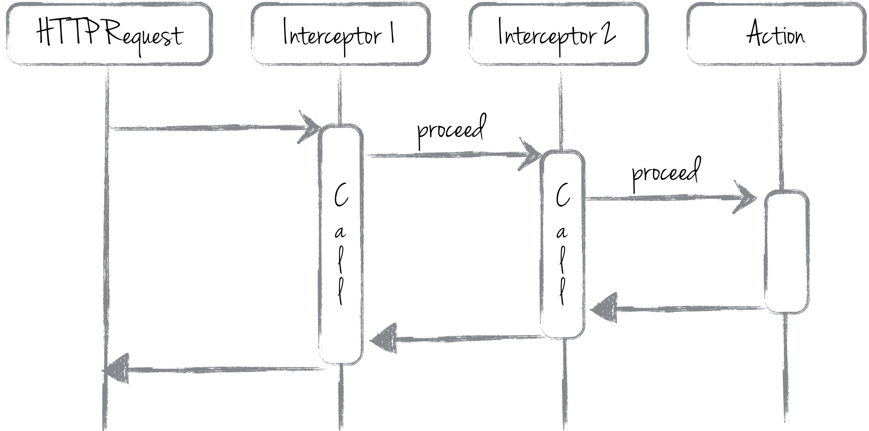
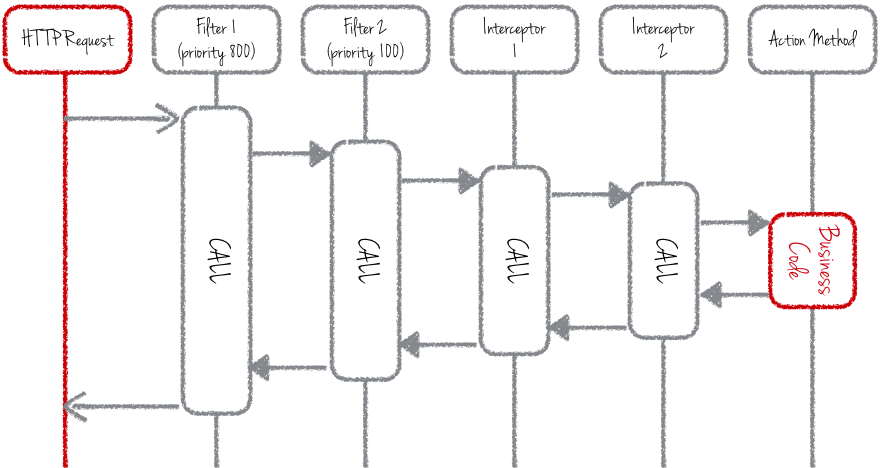
Add documentation about filters

Changed region(s): [[0.0, 0.0, 1.0, 1.0]]

diff --git a/documentation/src/main/java/interceptors/TimeFilter.java b/documentation/src/main/java/interceptors/TimeFilter.java
@@ -1,0 +1,66 @@
+package interceptors;
+
+import org.apache.felix.ipojo.annotations.Component;
+import org.apache.felix.ipojo.annotations.Instantiate;
+import org.apache.felix.ipojo.annotations.Provides;
+import org.slf4j.Logger;
+import org.slf4j.LoggerFactory;
+import org.wisdom.api.http.Result;
+import org.wisdom.api.interception.Filter;
+import org.wisdom.api.interception.RequestContext;
+import org.wisdom.api.router.Route;
+
+import java.util.regex.Pattern;
+
+/**
+ * A filter measuring the time spent to compute the time spent to handle an action
+ */
+@Component
+@Provides
+@Instantiate
+public class TimeFilter  implements Filter {
+
+    private static final Logger LOGGER = LoggerFactory.getLogger(TimeFilter.class.getName());
+
+    private static final Pattern REGEX = Pattern.compile("/documentation.*");
+
+    @Override
+    public Result call(Route route, RequestContext context) throws Throwable {
+        final long begin = System.currentTimeMillis();
+        try {
+            return context.proceed();
+        } finally {
+            final long end = System.currentTimeMillis();
+            LOGGER.info("Time spent to reply to {} {} : {} ms",
+                    route.getHttpMethod(), context.context().path(),
+                    (end - begin));
+        }
+    }
+
+    /**
+     * Gets the Regex Pattern used to determine whether the route
+     * is handled by the filter or not.
+     * Notice that the router are caching these patterns and so
+     * cannot changed.
+     */
+    @Override
+    public Pattern uri() {
+        return REGEX;
+    }
+
+    /**
+     * Gets the filter priority, determining the position of the
+     * filter in the filter chain. Filter with a high
+     * priority are called first. Notice that the router are caching
+     * these priorities and so cannot changed.
+     * <p/>
+     * It is heavily recommended to allow configuring the priority
+     * from the Application Configuration.
+     *
+     * @return the priority
+     */
+    @Override
+    public int priority() {
+        return 100;
+    }
+}
